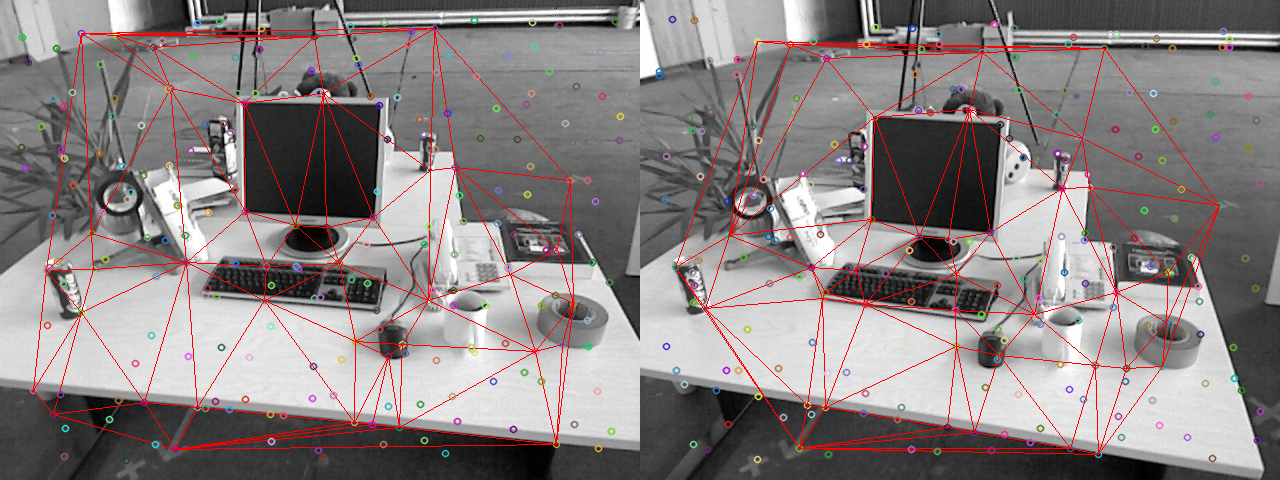
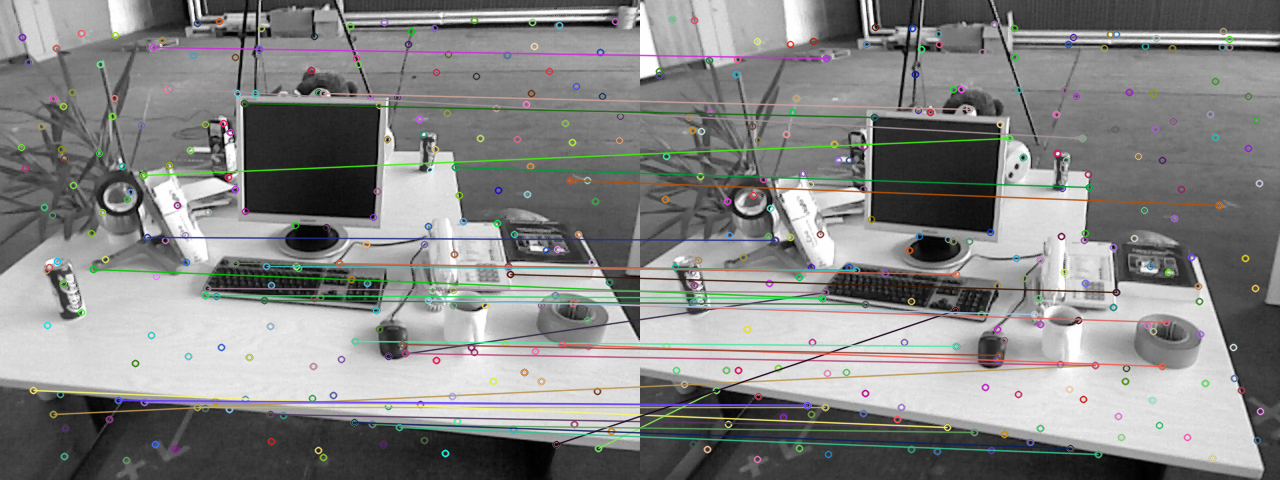
使用DTM进行误匹配剔除，备份

diff --git a/example/orbextract.cpp b/example/orbextract.cpp
@@ -20,7 +20,9 @@ using namespace cv;
 using namespace ORB_SLAM2;
 
 #define d_max_vaule 35  //35
-#define d_max_vaule_new 40
+#define d_max_vaule_new 50
+
+#define m_max_value 5
 
 /**
  * @brief DTM
@@ -188,6 +190,10 @@ int main()
 
     Mat feature3 = feature1.clone();
     Mat feature4 = feature2.clone();
+    Mat feature5 = feature1.clone();
+    Mat feature6 = feature2.clone();
+    Mat feature7 = feature1.clone();
+    Mat feature8 = feature2.clone();
     /**********************  构建第一组 DT 网络  ******************************/
     cout << "\n构建DT网络：" << endl;
     ///delaunay one
@@ -255,7 +261,7 @@ int main()
     /*******************  构建边矩阵，并计算相似度(范数)  *********************/
     cout << "\n计算DTM的相关信息：" << endl;
     Eigen::MatrixXd::Index maxRow,maxCol;
-    Eigen::MatrixXd edgeMatrix = Eigen::MatrixXd::Zero(20,20);  //computeEdgeMatrix() 在此处也修改了 20,20 ，需要同步修改，后期改进此处
+    Eigen::MatrixXd edgeMatrix = Eigen::MatrixXd::Zero(50,50);  //computeEdgeMatrix() 在此处也修改了 20,20 ，需要同步修改，后期改进此处
     edgeMatrix = triangulation.getEdgeMatrix() - triangulation2.getEdgeMatrix();
 //    cout <<  "DT1的边矩阵：\n"  << triangulation.getEdgeMatrix().row(4)  << endl;
 //    cout <<  "DT2的边矩阵：\n"  << triangulation2.getEdgeMatrix() << endl; //.row(4)
@@ -277,48 +283,14 @@ int main()
 
     cout << "候选外点：" << mvKeys2[good_matches[maxCol].trainIdx].pt << endl;
 
-//    temp =1;
-//    for(const auto &p:good_matches)
-//    {
-//        cout << temp << ":\t" << mvKeys2[p.trainIdx].pt << endl;
-//        temp++;
-//    }
-//    temp =0;
-
-
-//    Mat _resultImg = second_image.clone();
-//    Mat resultImg = Mat(_resultImg.rows,_resultImg.cols,CV_8UC3);
-//    cvtColor(_resultImg,resultImg,CV_GRAY2BGR);
-
-    //    circle(resultImg, Point(185,292), 5, Scalar(0, 255, 0));
-//    circle(resultImg, Point(182,298), 5, Scalar(0, 255, 0));
 
     cout << "\nold size:\t" << good_matches.size()<<endl;
-//    cout << mvKeys2[good_matches[15].trainIdx].pt << endl;
-//    good_matches.erase(good_matches.begin()+15);
-//    good_matches.erase(good_matches.begin()+maxCol);
-//    good_matches.erase(good_matches.begin()+1);
 
-//    circle(resultImg, mvKeys2[good_matches[15].trainIdx].pt , 5, Scalar(0, 255, 0));
-//    good_matches.erase(good_matches.begin()+15);
-//    circle(resultImg, mvKeys2[good_matches[maxCol].trainIdx].pt , 2 , Scalar(0, 255, 0));
-//    good_matches.erase(good_matches.begin()+8);
-//    circle(resultImg, mvKeys2[good_matches[1].trainIdx].pt , 5, Scalar(0, 255, 0));
-
-//    good_matches.erase(good_matches.begin()+15);
-//    good_matches.erase(good_matches.begin()+11);
-//    good_matches.erase(good_matches.begin()+8);
-//    good_matches.erase(good_matches.begin()+2);
-//    good_matches.erase(good_matches.begin()+1);
-//    good_matches.erase(good_matches.begin());
-
-//    cout << (edgeMatrix.cwiseAbs().colwise().sum())(0,19) << endl;
-    for(int i = 20;i != 0 ;i--)
+    for(int i = 50;i != 0 ;i--)
     {
-//        cout << (edgeMatrix.cwiseAbs().colwise().sum())(0,i-1) << endl;
-        if((edgeMatrix.cwiseAbs().colwise().sum())(0,i-1) >= 4 )
+        if((edgeMatrix.cwiseAbs().colwise().sum())(0,i-1) >= m_max_value )
         {
-            cout << (edgeMatrix.cwiseAbs().colwise().sum())(0,i-1) << endl;
+            cout << (edgeMatrix.cwiseAbs().colwise().sum())(0,i-1) << "\t,\t" << mvKeys1[good_matches[i-1].queryIdx].pt <<"\t,\t" << mvKeys2[good_matches[i-1].trainIdx].pt << endl;
             good_matches.erase(good_matches.begin()+i-1);
         }
     }
@@ -379,8 +351,8 @@ int main()
     waitKey(0);
 
     /****************************************/
-    cout << "\nfinish!" << endl;
-    return 0;
+//    cout << "\nfinish!" << endl;
+//    return 0;
 
 
 
@@ -530,7 +502,7 @@ int main()
 
     cout << "match:" << good_matches2.size()<<endl;
     Mat show2;
-    cv::drawMatches(feature1,mvKeys1_new,feature2,mvKeys2_new,good_matches2,show2);
+    cv::drawMatches(feature5,mvKeys1_new,feature6,mvKeys2_new,good_matches2,show2);
     imwrite("matches2.png",show2);
     imshow("matches2",show2);
     waitKey(0);

diff --git a/include/delaunay.h b/include/delaunay.h
@@ -239,7 +239,7 @@ public:
     void computeEdgeMatrix()
     {
         unsigned long count=_edges.size();
-        edgeMatrix = Eigen::MatrixXd::Zero(20,20);
+        edgeMatrix = Eigen::MatrixXd::Zero(50,50);
         for(const auto &p:_edges)
         {
             unsigned long m=p.p1.index;
